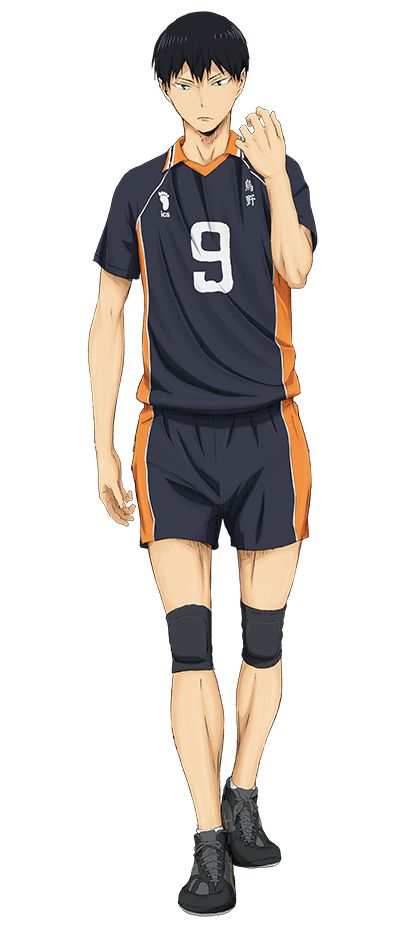
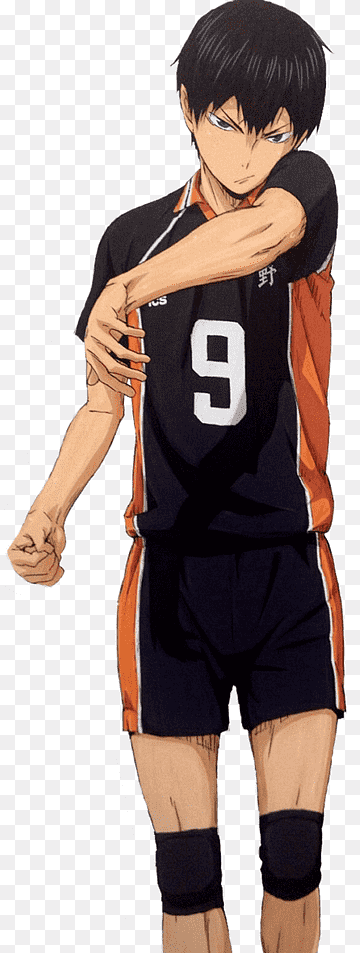
update

diff --git a/childPages/childTemplate2.html b/childPages/childTemplate2.html
@@ -38,7 +38,7 @@
   <body>
     <div><header class="header"<h1 style="font-size:5vw">Haikyuu!</h1></header></div>
     <div><aside class="header"><h1 style="font-size:2vw"<p> Tobio Kageyama</p></aside></div>
-    <div><nav class="menu"><h3><img src="http://amon.etakon.com/wp-content/uploads/2021/02/-%E9%A3%9B%E9%9B%84.png" alt="../Images/kageyama project1.png" title="tobio kageyama cyrilsablan" style="width:100x"</h3></nav></div>
+    <div><nav class="menu"><h3><img src="https://w7.pngwing.com/pngs/829/924/png-transparent-fan-fiction-anime-wattpad-haikyu-haikyuu-love-black-hair-roleplaying-thumbnail.png" alt="../Images/kageyama project1.png" title="tobio kageyama cyrilsablan" style="width:100x"</h3></nav></div>
     <div><section class="main"> <h3 style="font-size:2.5vw"> About Tobio Kageyama</h3>
      <article>
       <ol>
